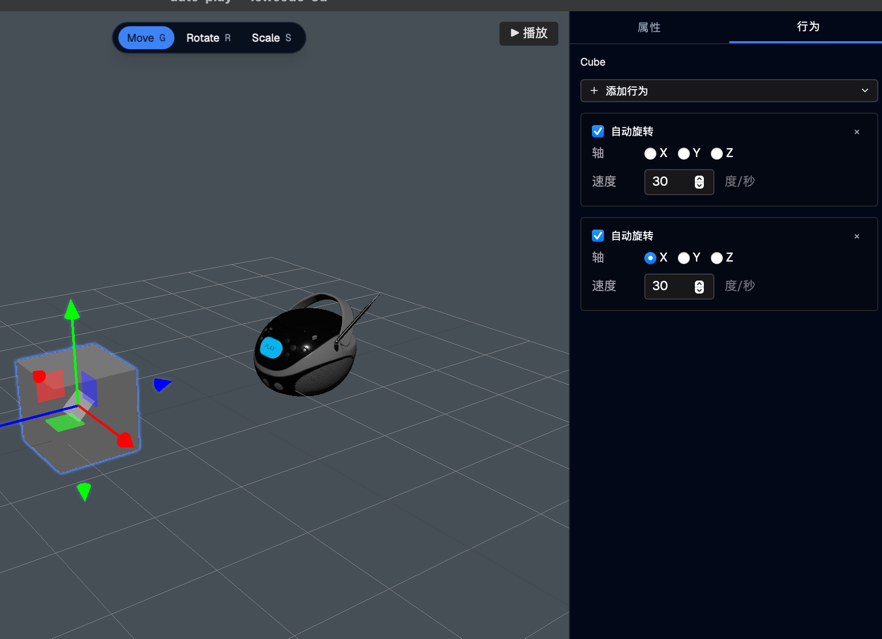
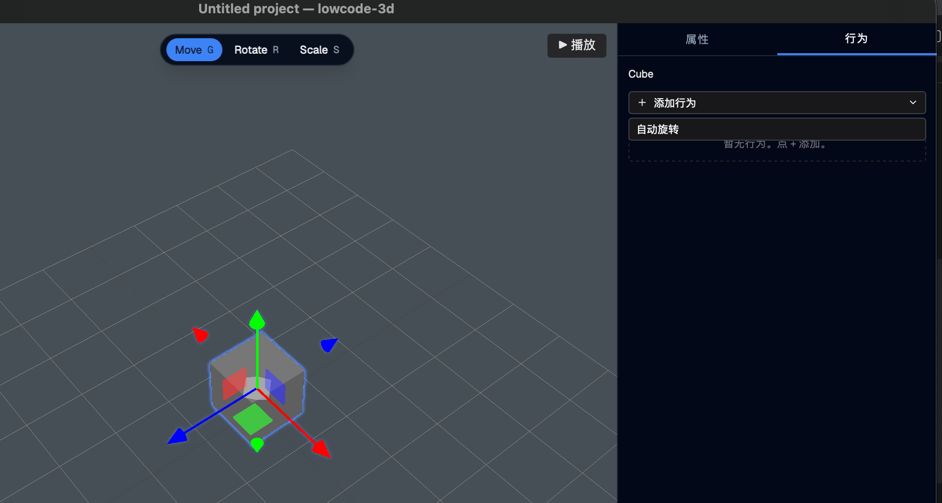
fix(ui): add picker lists all registered behaviors (was hardcoded to auto-rotate)
BehaviorsPanel 的 SUPPORTED_BEHAVIORS 是写死数组,只含 auto-rotate——
Stage C 注册了 bob/hover-highlight 但 picker 不读注册表,所以它们不出现。
补上 hover-highlight + bob 的条目(含默认参数)。新增防漂移 guard 测试:
SUPPORTED_BEHAVIORS 的 type 集合必须等于 createThreeBehaviorRegistry()
注册的集合(本次 bug 就能被它抓到)。

diff --git a/src/ui/editor/BehaviorsPanel.test.tsx b/src/ui/editor/BehaviorsPanel.test.tsx
@@ -7,7 +7,9 @@ import { useCommandHistoryStore } from "@/services/command-history/store";
 import { useSceneStore } from "@/services/scene/store";
 import { useUIStore } from "@/services/ui/store";
 
-import { BehaviorsPanel } from "./BehaviorsPanel";
+import { createThreeBehaviorRegistry } from "@/runtime/three/behaviors";
+
+import { BehaviorsPanel, SUPPORTED_BEHAVIORS } from "./BehaviorsPanel";
 
 const IDENTITY = {
   position: [0, 0, 0] as [number, number, number],
@@ -126,5 +128,14 @@ describe("BehaviorsPanel", () => {
     expect(screen.getByText(/unknown behavior/i)).toBeInTheDocument();
     expect(screen.getByLabelText(/remove/i)).toBeInTheDocument();
     expect(screen.queryByRole("spinbutton")).not.toBeInTheDocument();
+  });
+
+  it("offers every registered behavior in the add picker (no drift)", () => {
+    const registered = createThreeBehaviorRegistry()
+      .list()
+      .map((b) => b.definition.type)
+      .sort();
+    const offered = SUPPORTED_BEHAVIORS.map((s) => s.type).sort();
+    expect(offered).toEqual(registered);
   });
 });

diff --git a/src/ui/editor/BehaviorsPanel.tsx b/src/ui/editor/BehaviorsPanel.tsx
@@ -13,10 +13,14 @@ import { useUIStore } from "@/services/ui/store";
 
 import { BehaviorRow } from "./BehaviorRow";
 
-const SUPPORTED_BEHAVIORS: Array<{
+export const SUPPORTED_BEHAVIORS: Array<{
   type: string;
   defaultParams: Record<string, unknown>;
-}> = [{ type: "auto-rotate", defaultParams: { axis: "y", speed: 30 } }];
+}> = [
+  { type: "auto-rotate", defaultParams: { axis: "y", speed: 30 } },
+  { type: "hover-highlight", defaultParams: { color: "#ffaa00", intensity: 1 } },
+  { type: "bob", defaultParams: { axis: "y", amplitude: 0.5, frequency: 1 } },
+];
 
 export function BehaviorsPanel() {
   const { t } = useTranslation("editor");
